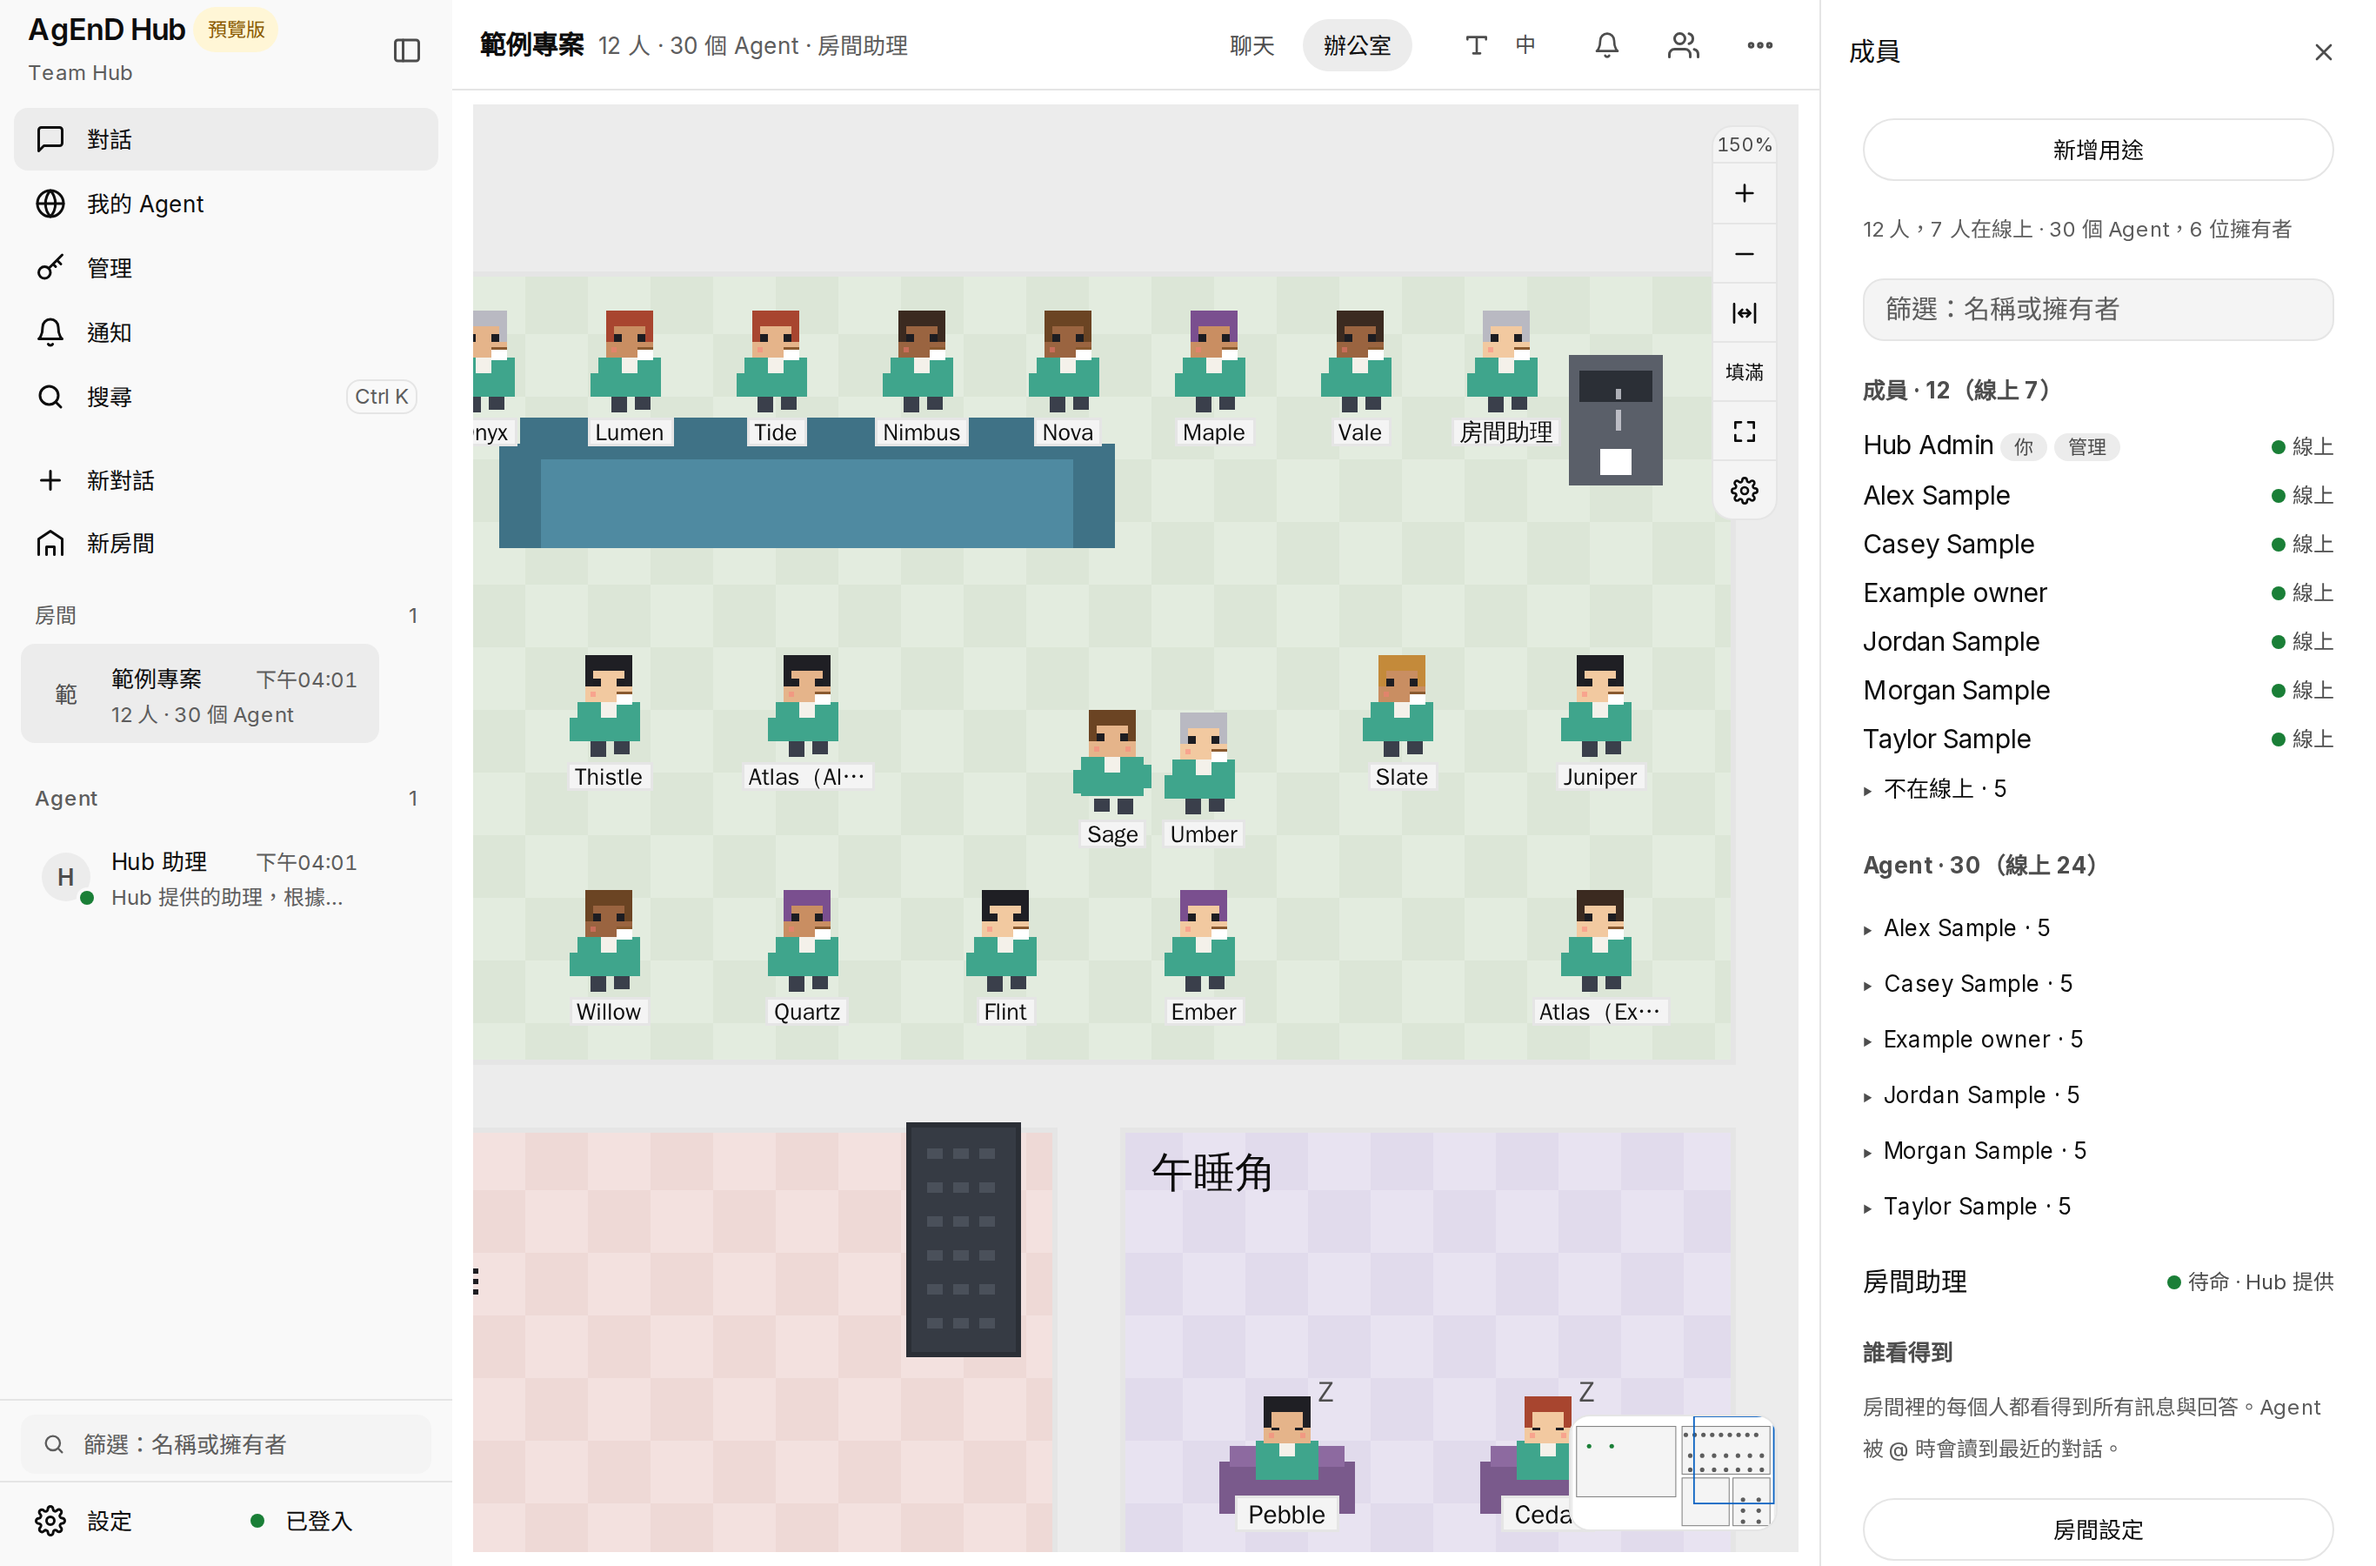
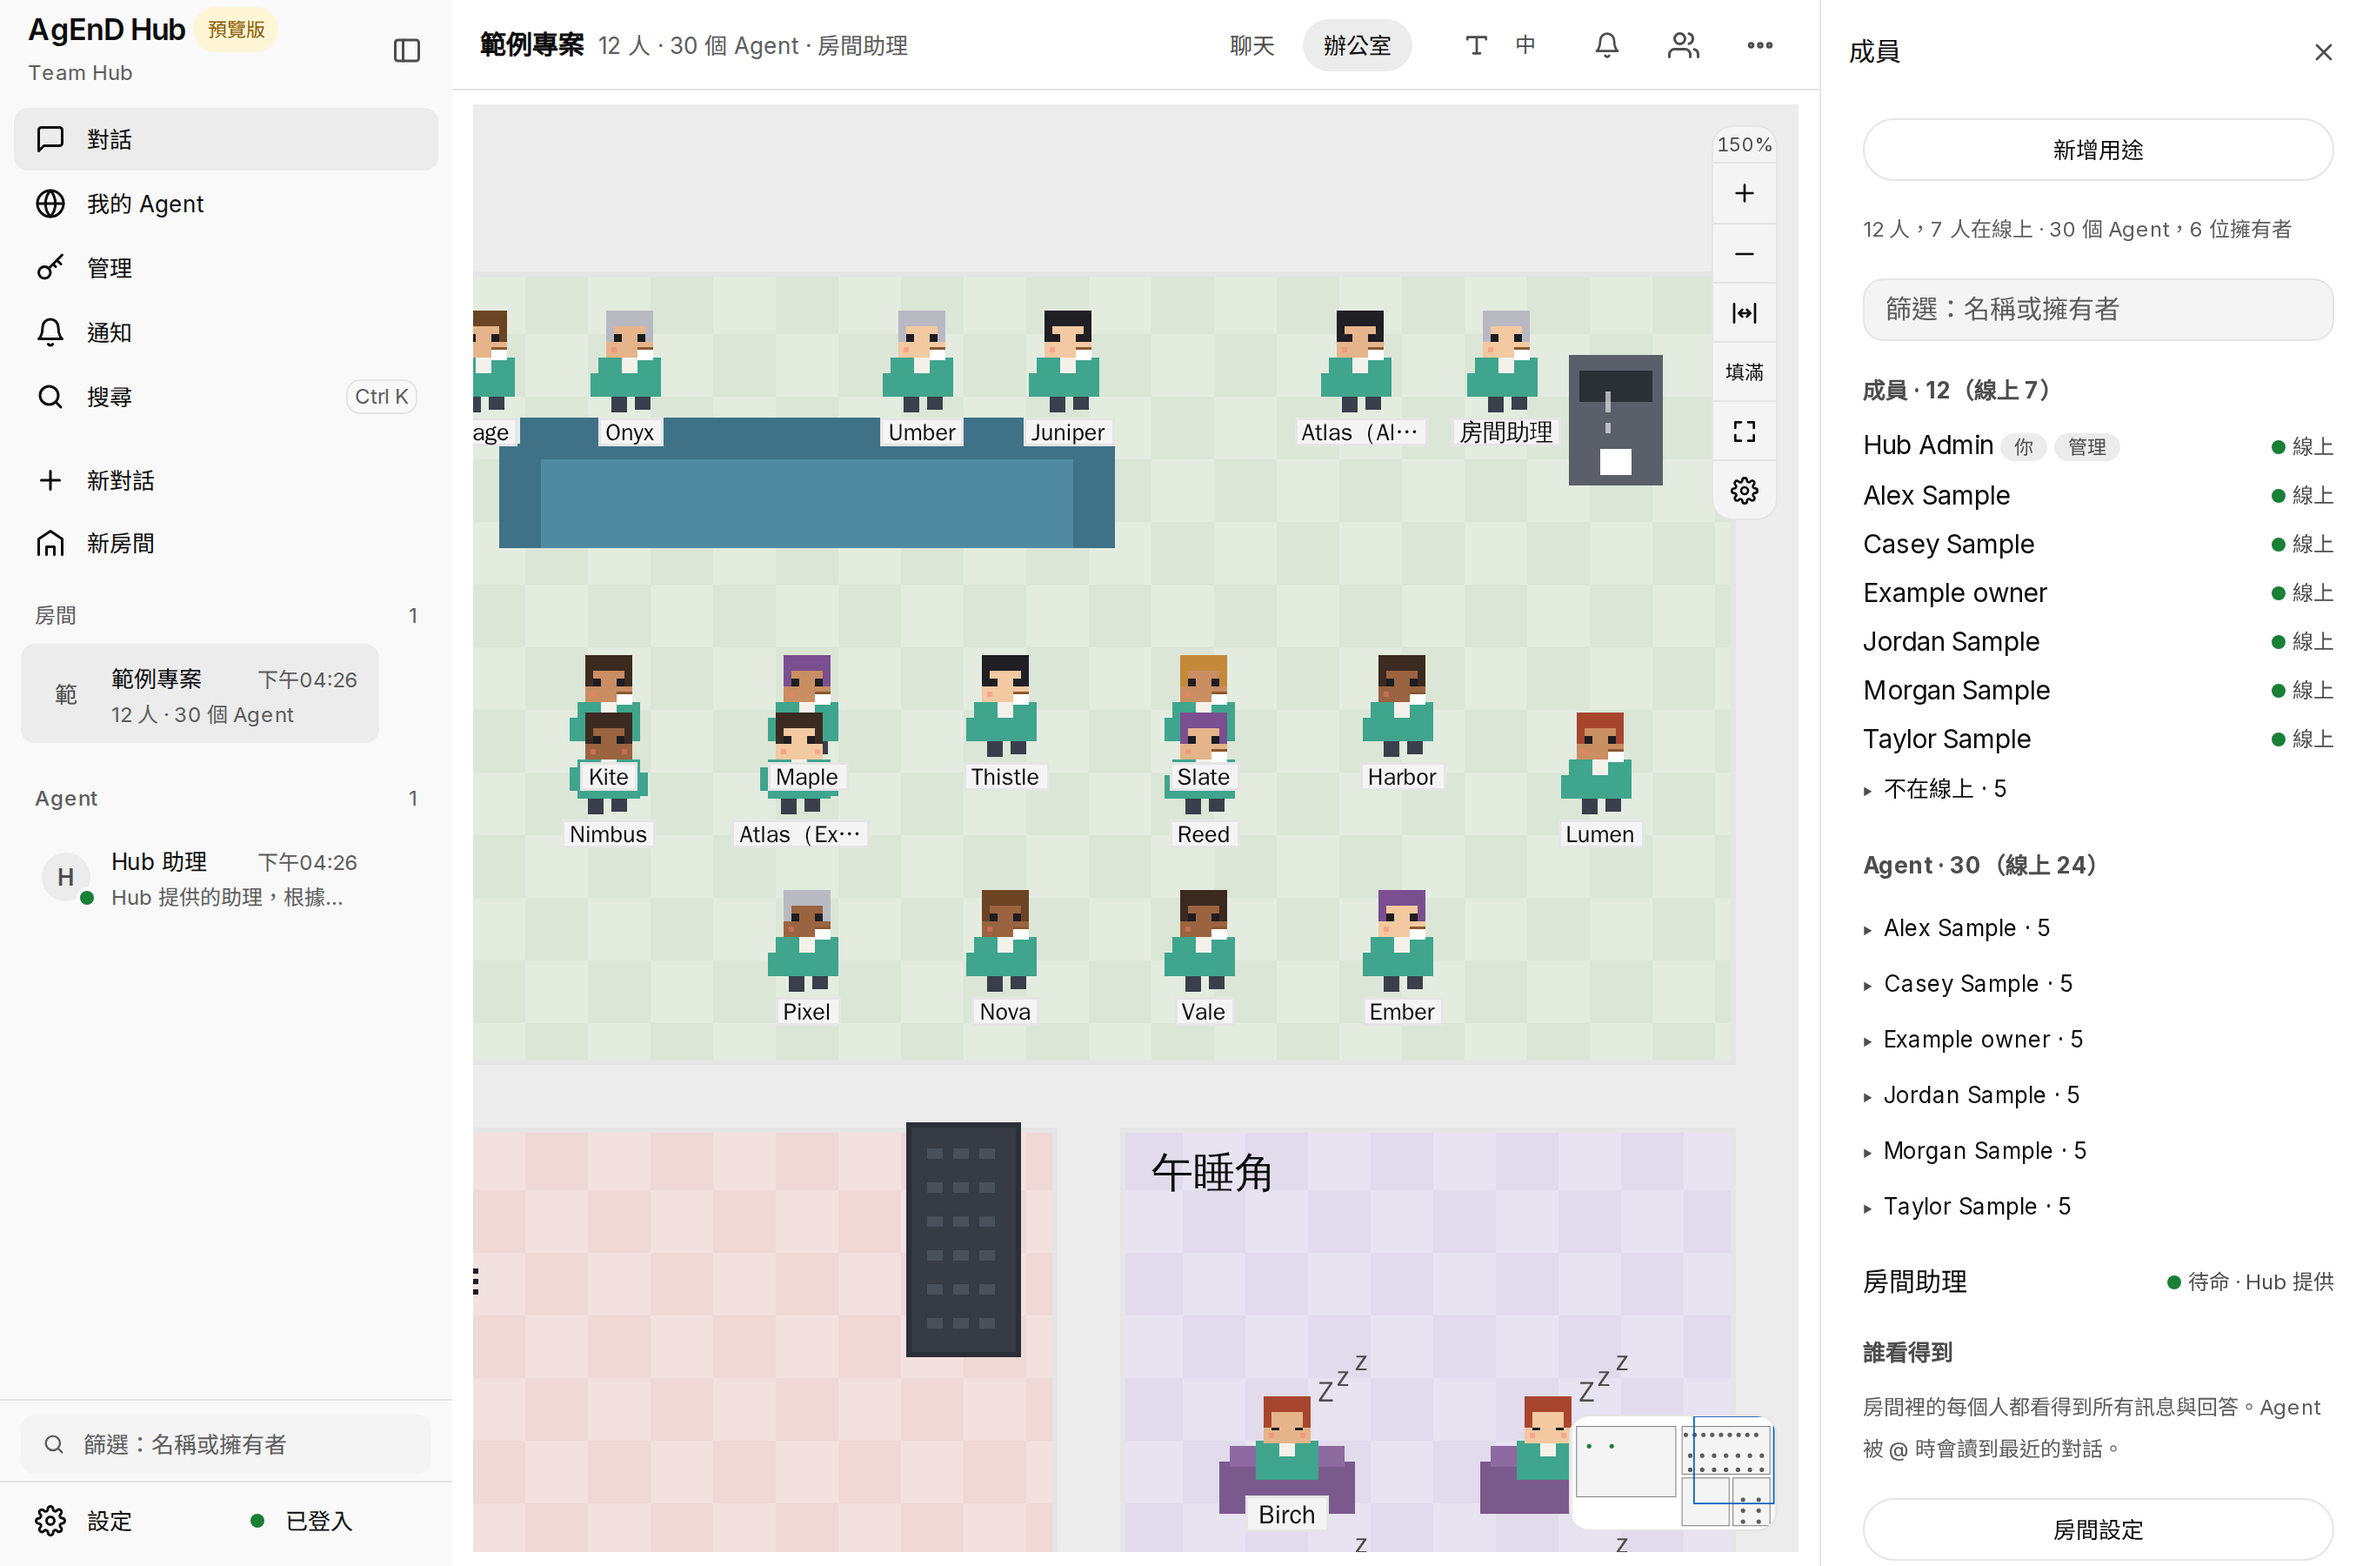
docs(evidence): the walk-in pair at one paused moment, and the minimap at 150% (#4376 capture check)

diff --git a/docs/evidence/office-labels-m3539/README.md b/docs/evidence/office-labels-m3539/README.md
@@ -3,16 +3,17 @@
 These are captures of the real Hub (HTTPS and SQLite, through the Hub test rig) and its real room office, headless Chromium, taken from two commits:
 
 - **before**: #4370's head `ce5f6556`;
-- **after**: this branch at `a3fc48de`, which already has the help-desk rule (`e2458506`) and the fresh-placement fix. Later commits change nothing in these scenes. `bc82159b` only matters for a style whose calling states fall back to a default or first area, and the Studio styles name theirs.
+- **after**: this branch at `a3fc48de`, which already has the help-desk rule (`e2458506`) and the fresh-placement fix. The walk-in pair and the zoomed pair are from `20545610`, which adds the minimap to what tags keep clear of; their before is the same `ce5f6556`. Later commits change nothing in these scenes. `bc82159b` only matters for a style whose calling states fall back to a default or first area, and the Studio styles name theirs.
 
 The room has 12 people and 30 agents of 6 owners, plus the room assistant, all with made-up names. Two agents are working, one is paused, and one owner's Fleet is offline, so its 5 agents are stopped and go to the nap corner. Each shot is taken 3 s after the office opens, with normal motion (idle agents stroll).
 
 | What | Captures |
 |---|---|
+| **The same moment on both commits:** the first frame of the office, the page clock paused and stepped alike. In before, everyone walks in from the old style's seats and tags pile up: Yarrow/Zephyr and Birch/Pebble in Studio, 13 pairs in Studio (large). In after, everyone is in place, with no tag on another | `desk-zh-TW-light-{before,after}-studio-walkin.png`, `desk-zh-TW-light-{before,after}-studio-large-walkin.png` |
 | Studio, desktop | `desk-zh-TW-light-{before,after}-studio.png`, `desk-en-dark-{before,after}-studio.png` |
 | Studio (large), desktop | `desk-en-dark-{before,after}-studio-large.png` |
 | Studio, phone | `phone-zh-TW-dark-{before,after}-studio.png`, `phone-en-light-{before,after}-studio.png` |
-| Zoomed in twice and panned to the top right | `desk-zh-TW-light-{before,after}-studio-zoomed.png` |
+| Zoomed in twice and panned (150%): in before the minimap covers Cedar's tag in the nap corner; in after the tags keep clear of it | `desk-zh-TW-light-{before,after}-studio-zoomed.png` |
 | Phone, the nap corner chip | `phone-en-light-{before,after}-studio-nap.png` |
 
 ## Measured
@@ -20,20 +21,22 @@ The room has 12 people and 30 agents of 6 owners, plus the room assistant, all w
 These are observations from sampled frames, not proofs of a rule. The rules themselves (no two tags touching, nothing under what is kept clear, no idle stroll or visit ending in the area the calling go to, a new style stopping every walk) are proven by `tests/office-tag-placement-m3539.test.ts`, each with a mutation that fails it.
 
 
-A scratch probe (not part of this change) recorded every tag the scene drew, each area's name box, where everyone stood, and the zoom control's box. It took 8 frames 1.5 s apart, starting 3 s after the office opened, in 4 runs (desktop and phone; zh-TW and English) × 2 styles.
+A scratch probe (not part of this change) recorded every tag the scene drew, each area's name box, where everyone stood, and the zoom control's and the minimap's boxes. The walk-in and zoomed pairs were taken in the probe's runs; the probe only records and draws nothing. It took 8 frames 1.5 s apart, starting 3 s after the office opened, in 4 runs (desktop and phone; zh-TW and English) × 2 styles.
 
 | In any frame | before | after |
 |---|---|---|
 | Name tags overlapping another tag (worst frame per run) | 1–3 pairs in every run (e.g. Yarrow/Pebble, Dune/Cedar, Willow/Flint) | 0 in every frame |
 | A tag on an area's name | 0 | 0 |
 | A tag under the zoom control (including zoomed in) | 0 | 0 (now kept clear by construction) |
+| A tag under the minimap at 150% | Cedar | none |
+| The office's first frame, the clock paused (walk-in pair) | 2 pairs (Studio), 13 (large); 0 of 6 in the nap corner | 0 and 0; 6 of 6 |
 | Nap corner at 3 s: people sent there / drawn there | 6 / 0 (Studio), 6 / 4–5 (large): the stopped walked in from the old seats, through the help desk | 6 / 6 in every run |
 | An idle agent standing in the help desk (求救區), at rest between strolls, in the sampled frames | 2 (Reed, Quartz) | 0 |
 | Phone, English: zone chips | 402 px of chips in 340 px, cut with no cue | the same width, now fading at the right while there is more |
 
 What changed:
 
-- **One placer for every name tag.** It keeps a tag clear of the others (their level badges included), of each area's name, and of the controls drawn over the scene: the zoom stack, and the phone's zone chips where they float over it.
+- **One placer for every name tag.** It keeps a tag clear of the others (their level badges included), of each area's name, and of the controls drawn over the scene: the zoom stack, the minimap, and the phone's zone chips where they float over it.
   - A tag goes at its place, else a row lower, else compact (there, then a row lower). One that fits nowhere is shown on hover or focus.
   - The hovered person's tag is always at their place.
   - People walking are tagged after everyone at their place, so a stroll no longer covers a seated person's name.
